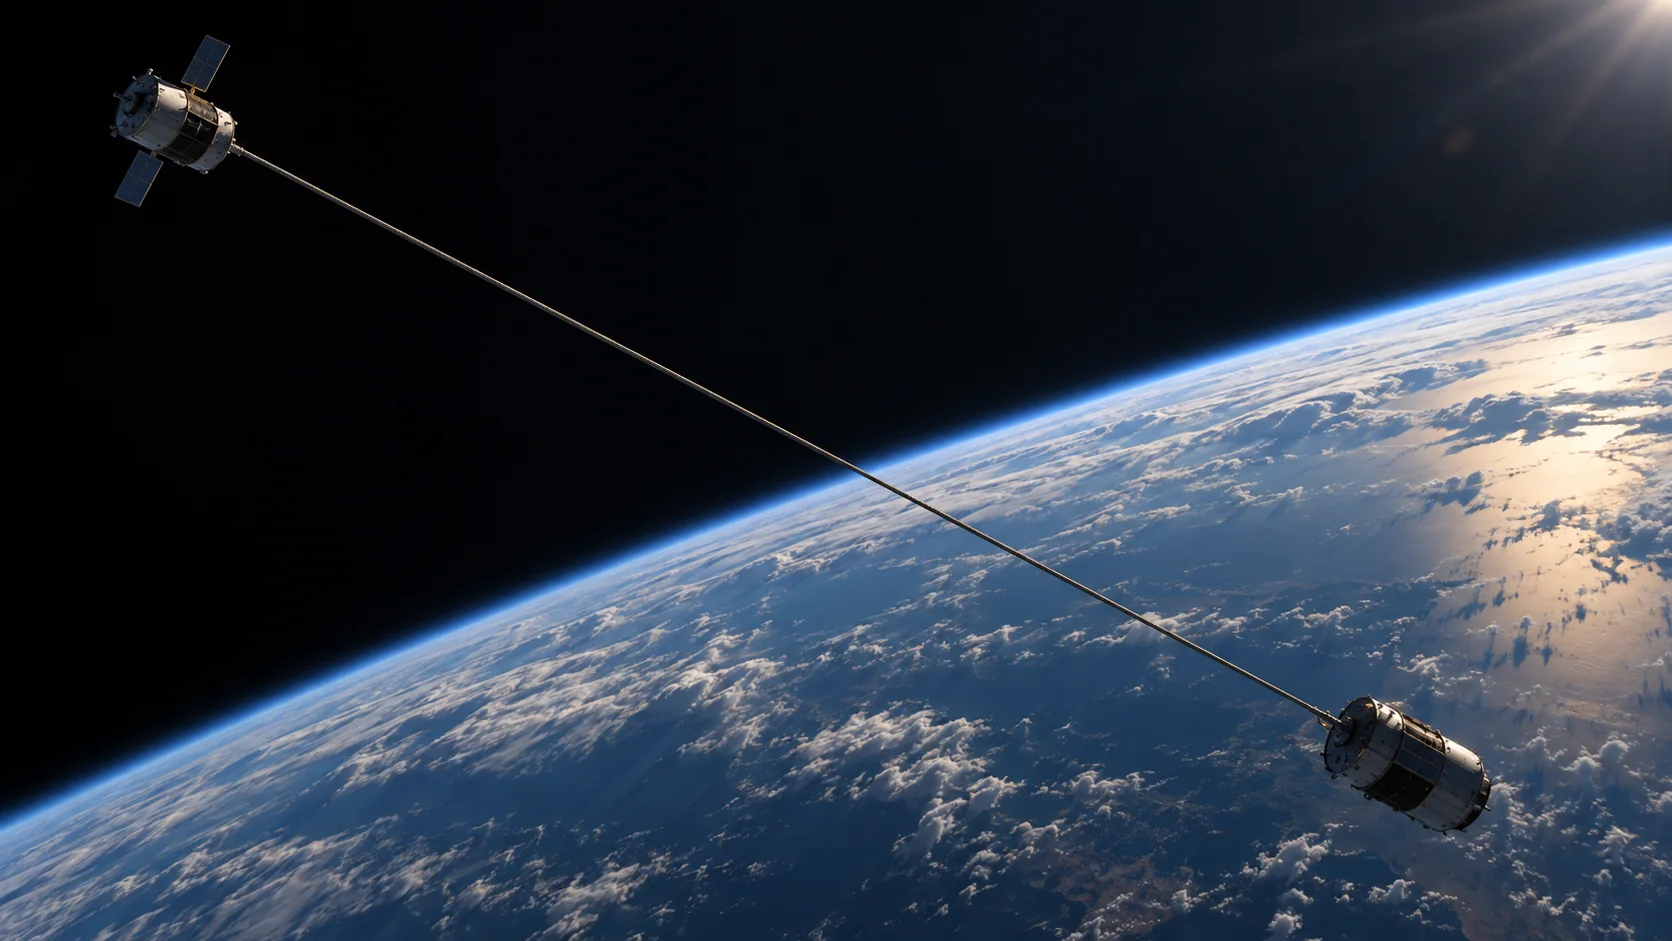
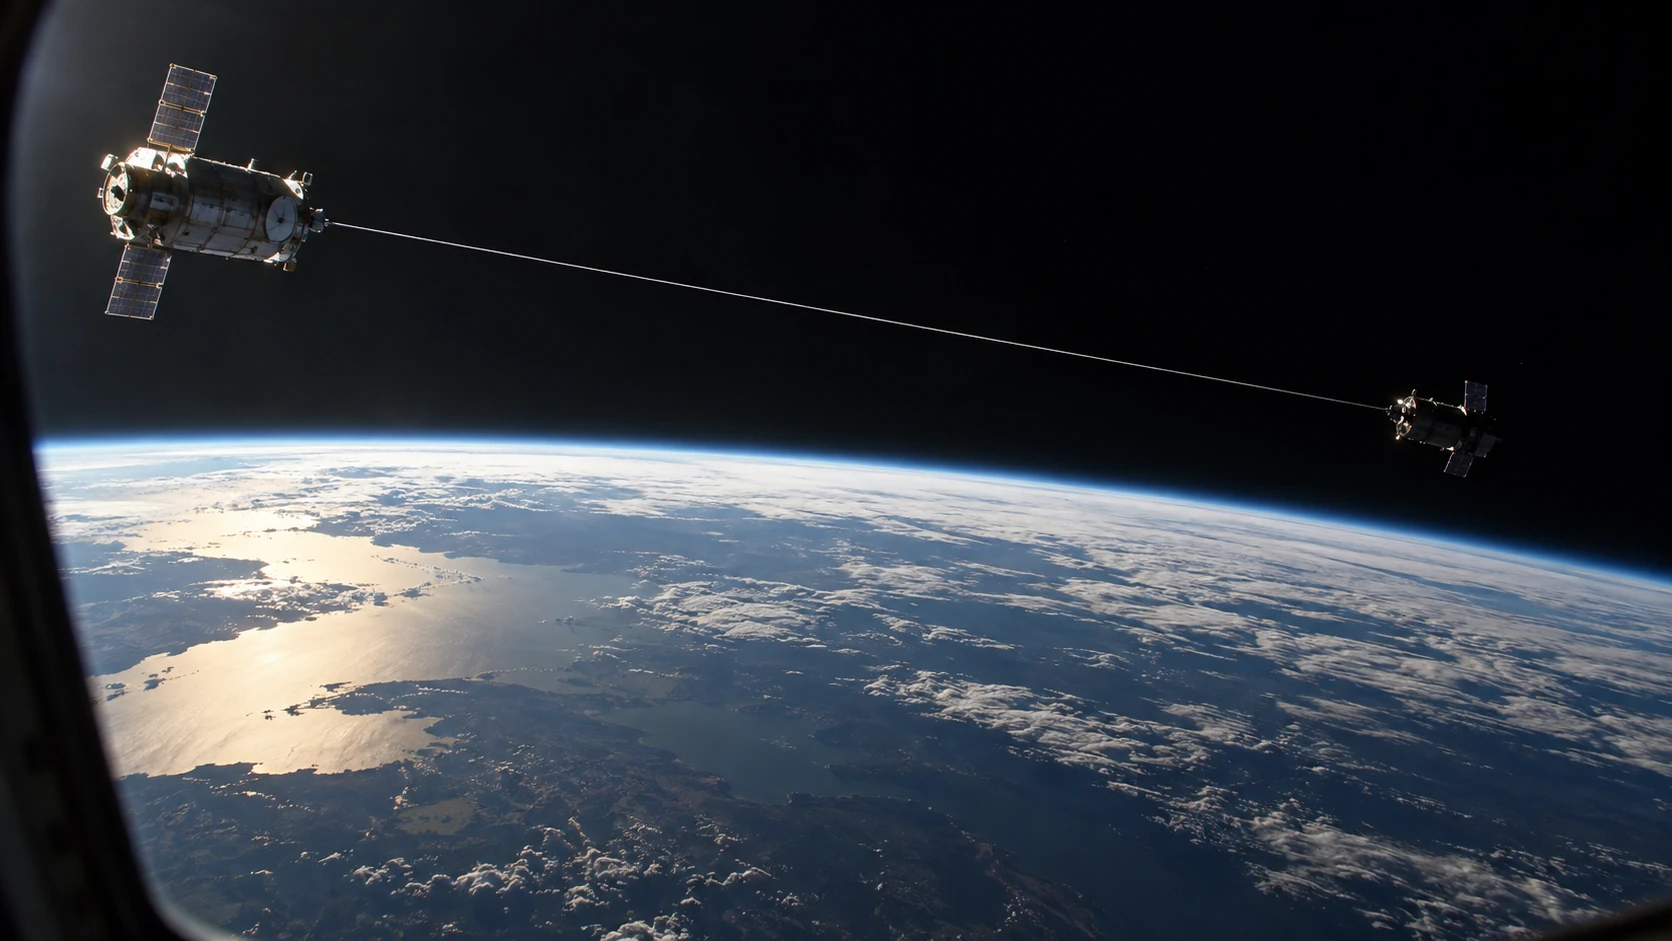
feat: update main images for eight rooms

diff --git a/src/data/astroData.ts b/src/data/astroData.ts
@@ -68,6 +68,9 @@ const sources = {
 const assetBase = import.meta.env.BASE_URL;
 
 const studyRoomImageRevisionIds = new Set([
+  'asteroid-habitat',
+  'exoplanets',
+  'space-based-solar',
   'venus-terraforming',
   'life-support',
   'artificial-gravity',
@@ -117,6 +120,13 @@ const studyRoomImageRevisionIds = new Set([
   'civilizaciones-silenciosas',
   'berserker',
 ]);
+
+const studyRoomImageAssetOverrides: Record<string, string> = {
+  radiators: 'radiators-v01.webp',
+  worldship: 'worldship-v01.webp',
+  'zoo-hypothesis': 'zoo-hypothesis-v01.webp',
+  'dark-forest': 'dark-forest-v01.webp',
+};
 
 export const chapterVisuals = {
   intro: {
@@ -724,10 +734,13 @@ const getConceptIllustration = (
   mechanism: string,
 ): AstroConcept['illustration'] => {
   const habitatPrompt = habitatConceptVisualPrompts[id];
-  const hasUpdatedStudyRoomImage = studyRoomImageRevisionIds.has(id);
-  const conceptPath = hasUpdatedStudyRoomImage
-    ? `${assetBase}illustrations/ai/concepts/${chapterId}/${id}-v02.webp`
-    : `${assetBase}illustrations/ai/concepts/${chapterId}/${id}.webp`;
+  const selectedAsset = studyRoomImageAssetOverrides[id];
+  const hasUpdatedStudyRoomImage = Boolean(selectedAsset) || studyRoomImageRevisionIds.has(id);
+  const conceptPath = selectedAsset
+    ? `${assetBase}illustrations/ai/concepts/${chapterId}/${selectedAsset}`
+    : hasUpdatedStudyRoomImage
+      ? `${assetBase}illustrations/ai/concepts/${chapterId}/${id}-v02.webp`
+      : `${assetBase}illustrations/ai/concepts/${chapterId}/${id}.webp`;
   const gallery = hasUpdatedStudyRoomImage
     ? [{
         label: 'Versión anterior',
